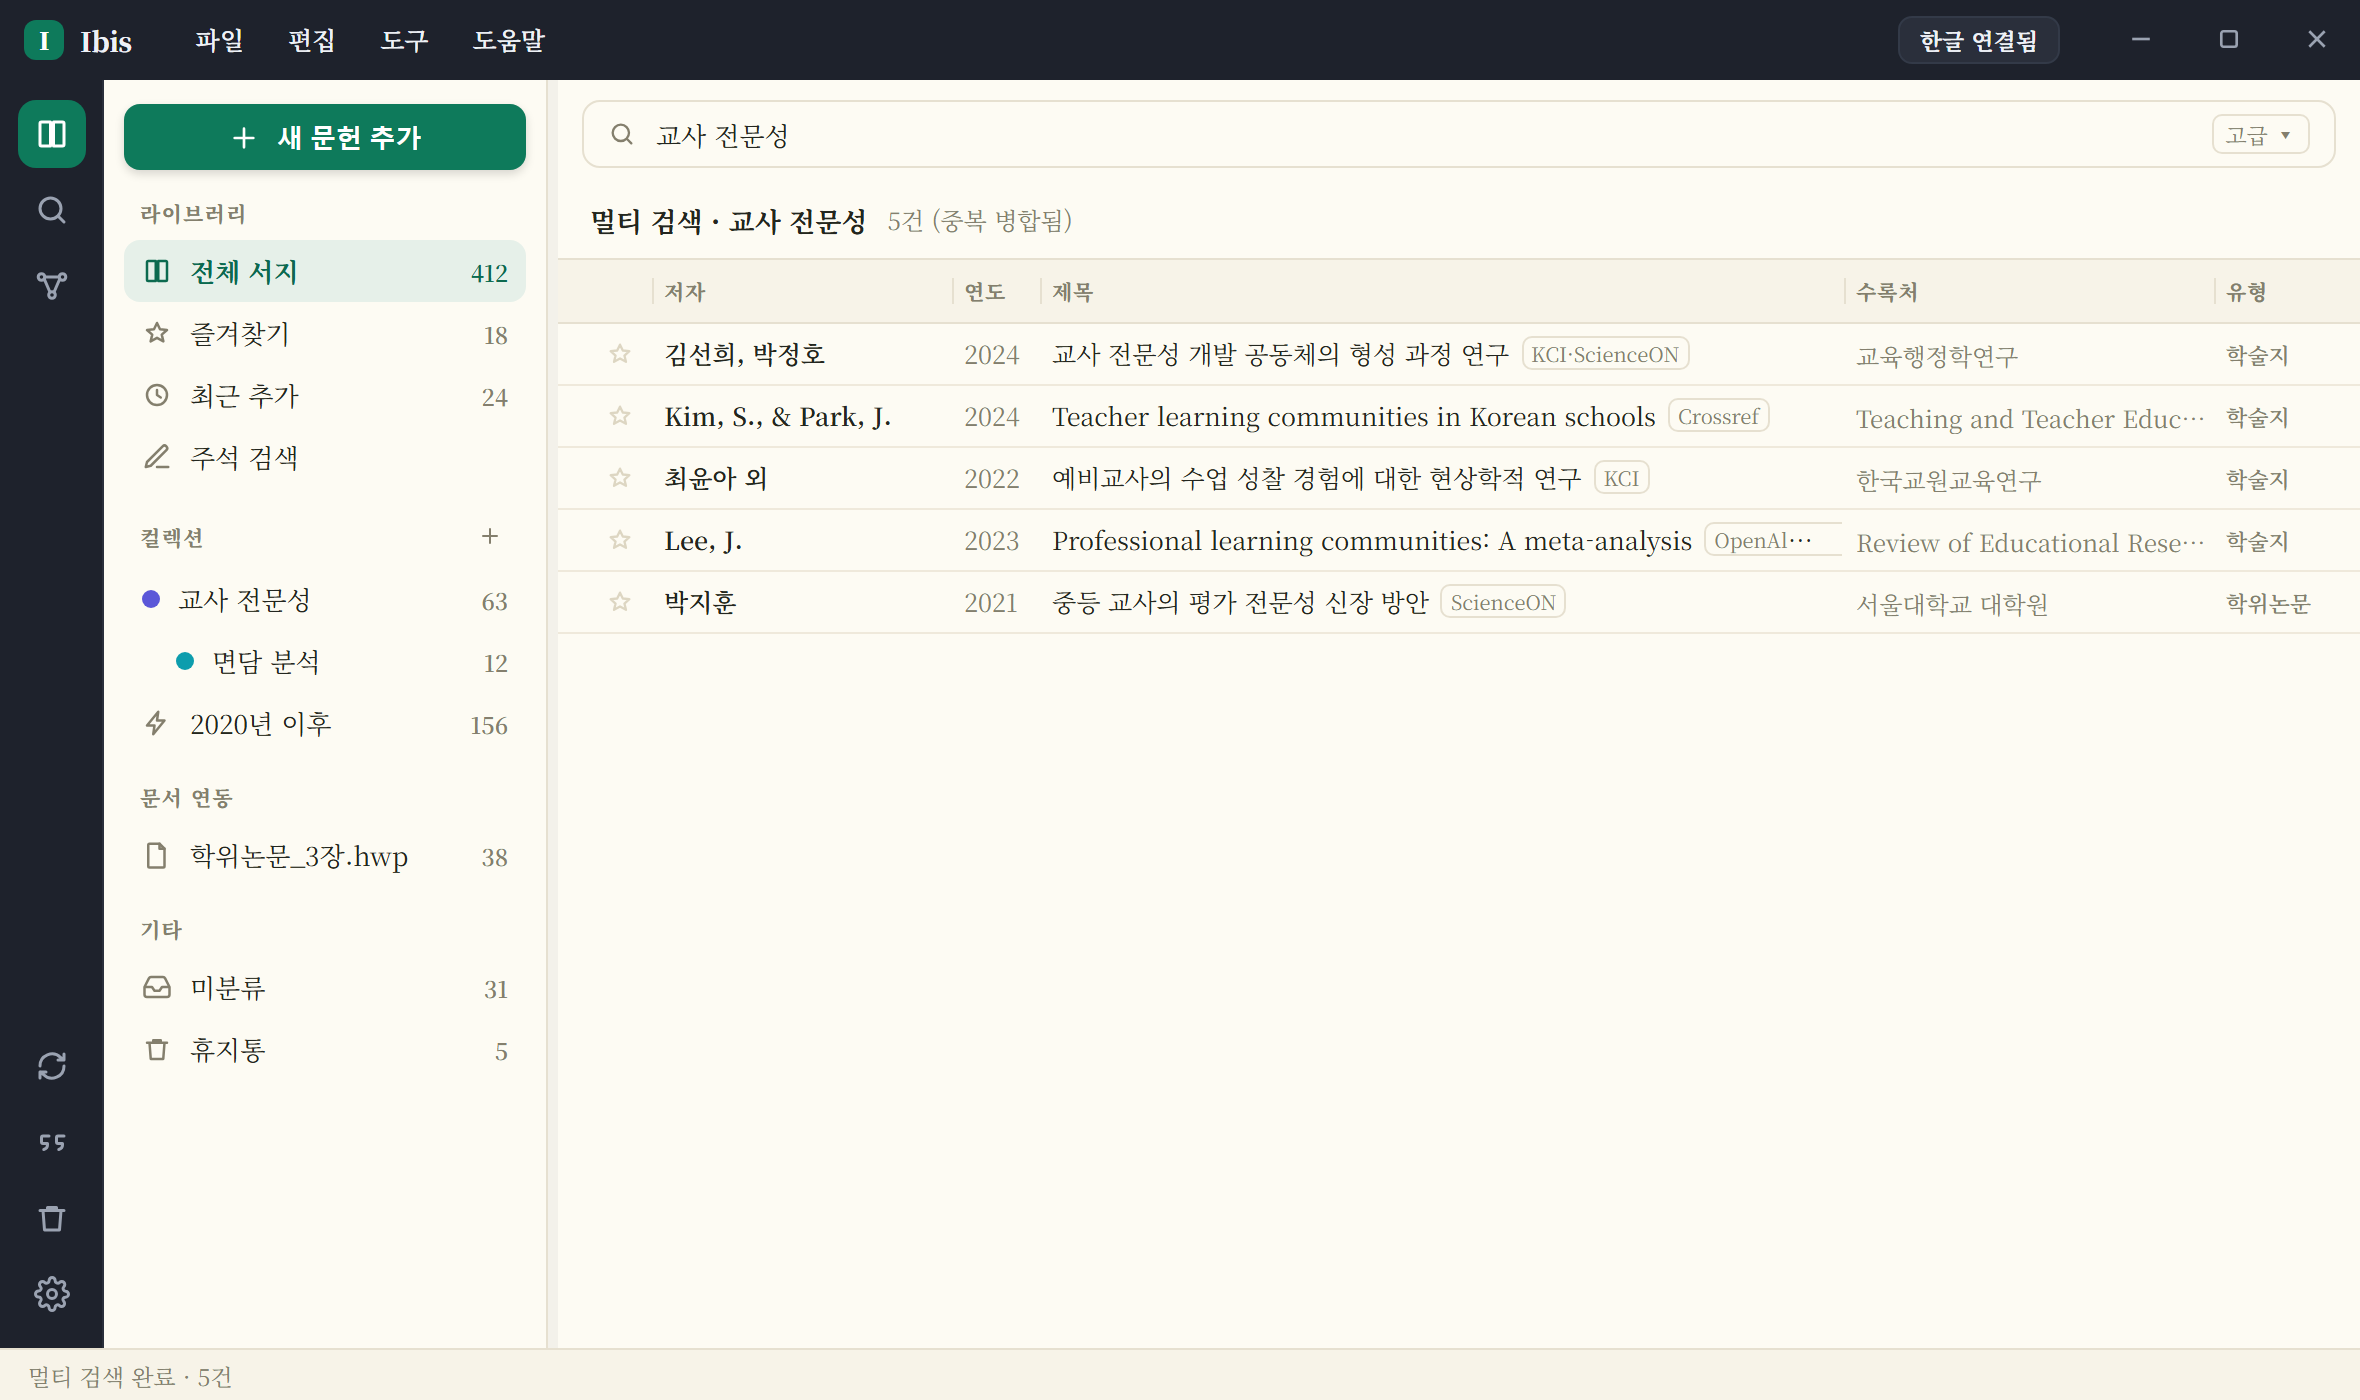
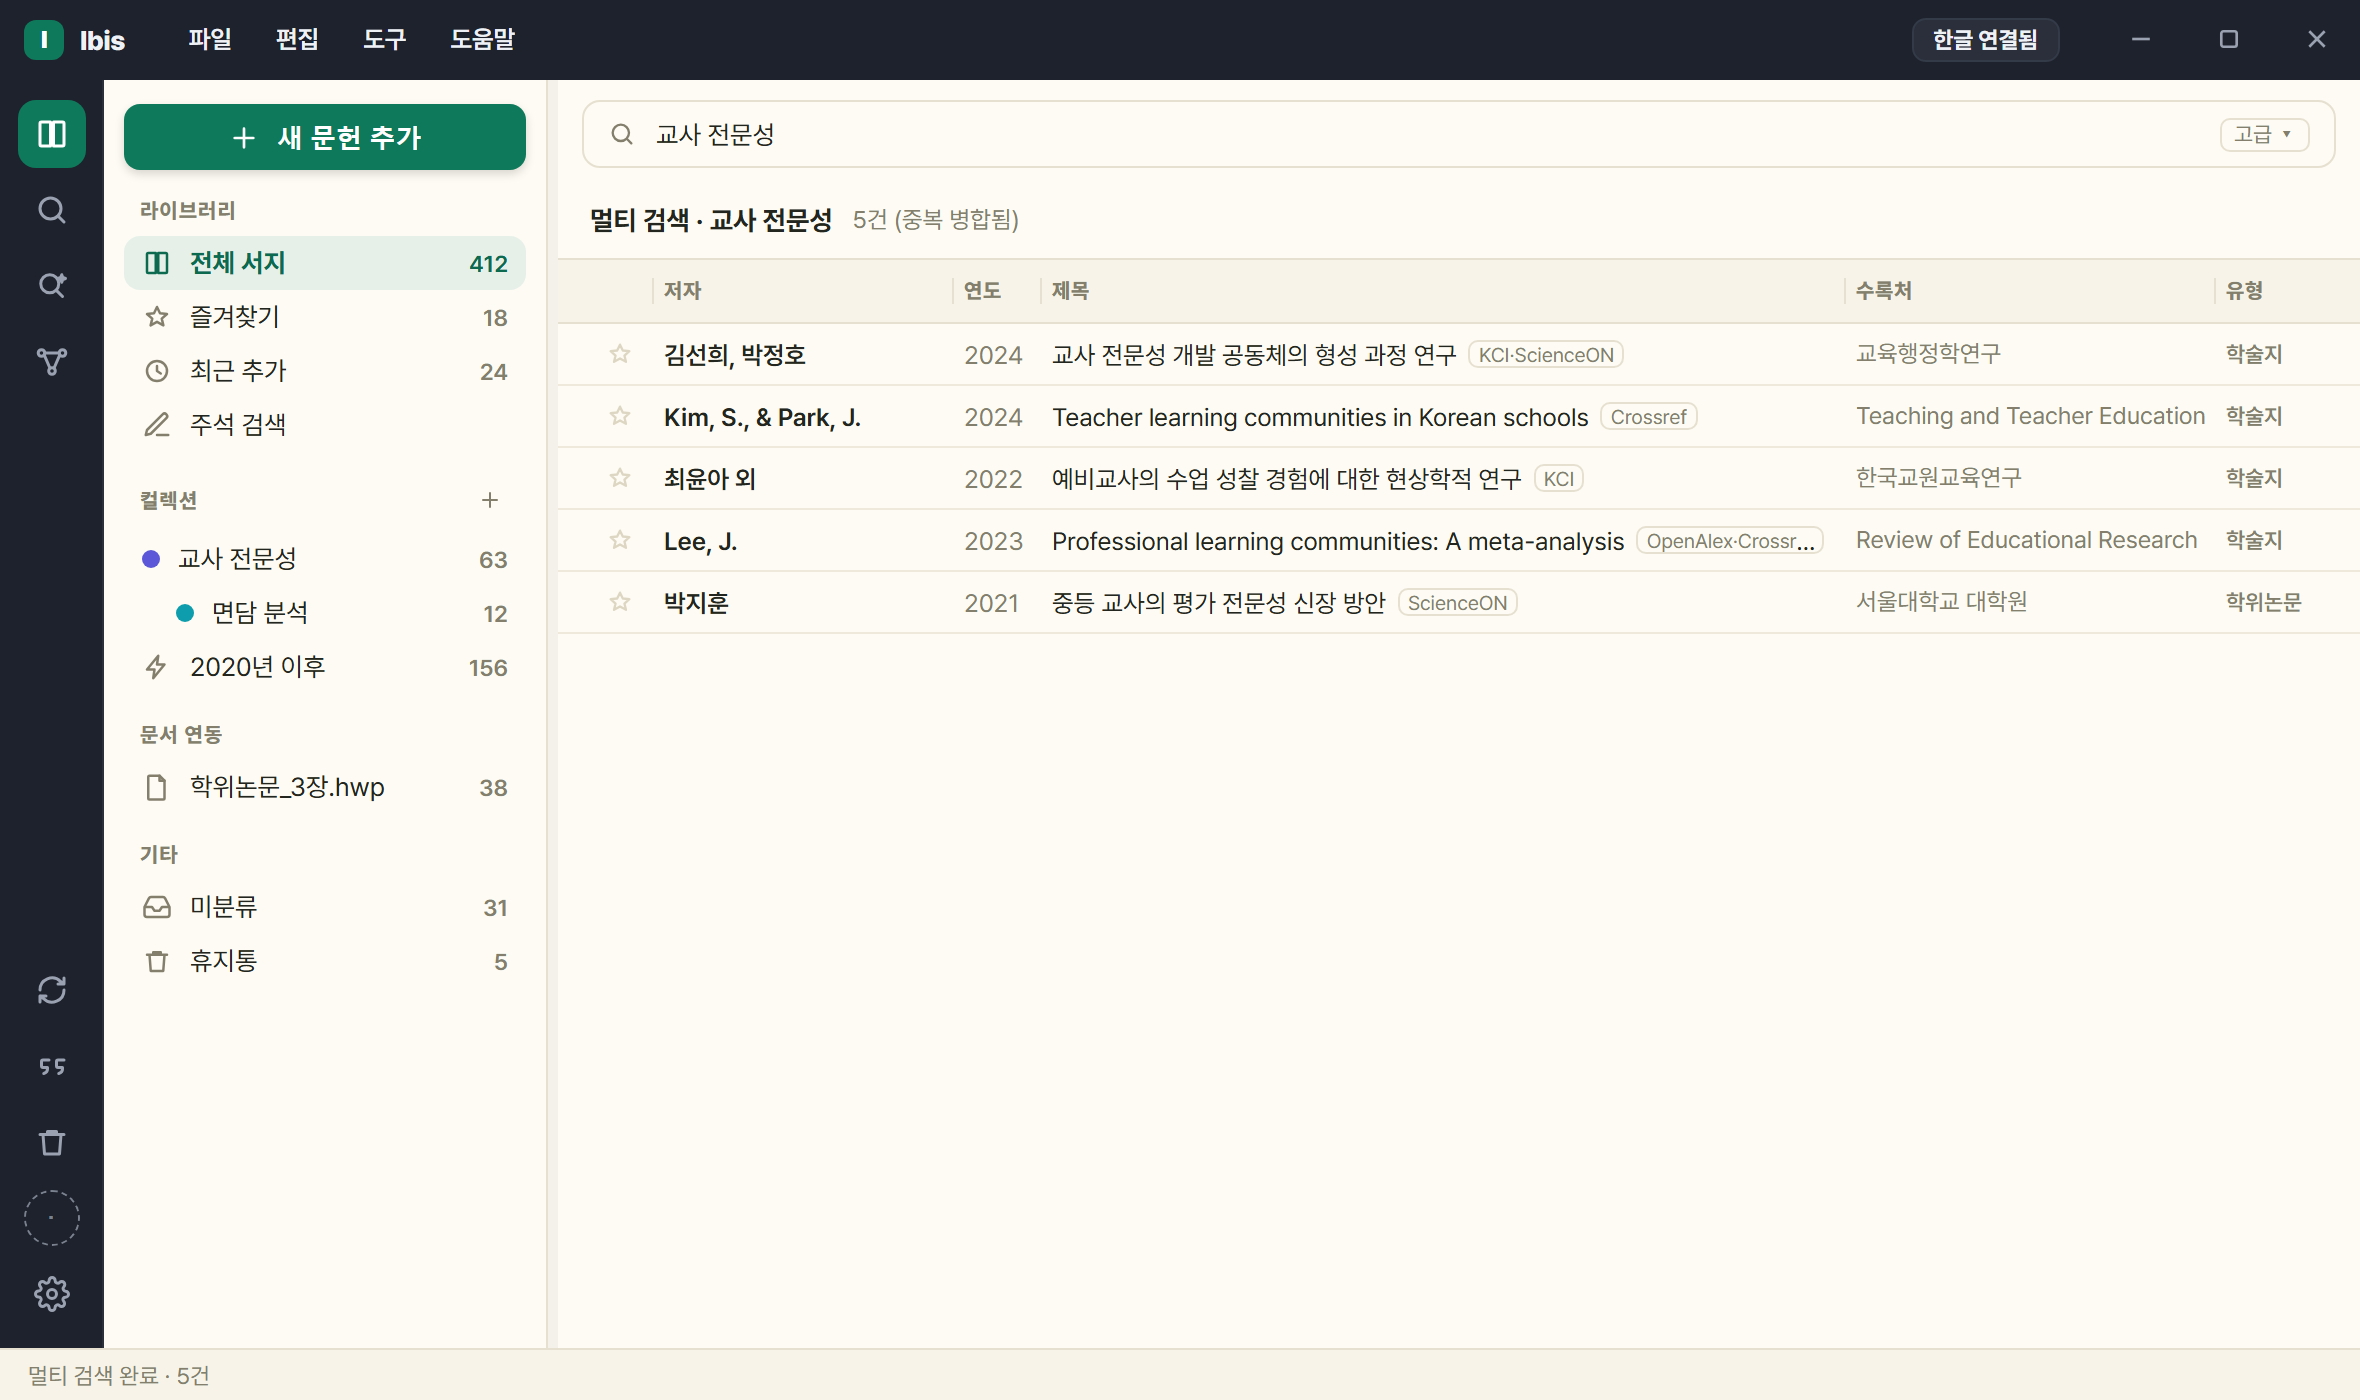
docs(images): 2026.9.4 화면으로 캡처 갱신 · 질문으로 찾기 화면 추가
- 하네스(packaging/screenshots.mjs)로 다시 찍은 캡처로 교체: 기본 화면(레일의 질문으로 찾기·계정
  동그라미), 태그 그래프, 상세 패널, AI 리서치 노트, 외부 검색, Ibis 정보, 테마 6종
- PDF 뷰어: 손으로 찍은 어두운 테마 캡처를 아이보리 렌더로 교체 — 주석·대화 두 탭이 보인다
- 3.1 질문으로 찾기에 실제 결과 화면(관련도 순위·보관됨·출처 칩·예상 크레딧) 추가
- 설정 화면 3장은 그대로 둔다(작업트리의 설정 UI 는 미출시 변경을 담고 있어 2026.9.4 와 어긋난다)

diff --git a/docs/USAGE.md b/docs/USAGE.md
@@ -116,6 +116,8 @@
 
 낱말이 아니라 **연구 질의를 문장으로** 던지면, 국내외 학술 DB 와 내 서재를 한 번에 뒤져 **관련도 순위**로 돌려줍니다. 레일 **세 번째 아이콘**입니다.
 
+![질문으로 찾기 — 문장으로 물으면 관련도 순위로 돌려준다](images/ask.png)
+
 1. 질의를 문장으로 적습니다 — 예: `국내 교육사회학 연구에서 교육불평등을 어떻게 다뤄 왔나`.
 2. **검색 대상**을 고릅니다: `전체` │ `내 서재` │ **국내**(KCI·ScienceON·국립중앙도서관) │ **국외**(OpenAlex·Crossref·ERIC·arXiv).
 3. 진행이 단계로 보입니다 — `검색어 만들기 → DB에서 찾기 → 관련도 매기기 → 정리`(지금 단계가 점멸).
